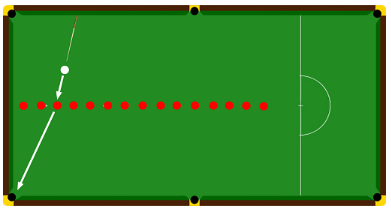
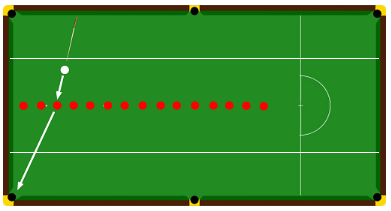
Exercises: series counter for "Detendez votre bras" (reds only), guide lines
- ExerciseSeries gains a reds-only mode (15 reds, no colours) with tests;
  the score dialog hides the colour buttons for it.
- Exercise 3 diagram now shows two white lines midway between the reds
  and each cushion (table split in three equal strips).
- Joueurs profile summarises the new exercise.

Changed region(s): [[0.0307, 0.7109, 0.9514, 0.7393], [0.0307, 0.2559, 0.9514, 0.2844]]

diff --git a/SnookerPlayer_Build6001/src/UI/ExerciseScoreDialog.cpp b/SnookerPlayer_Build6001/src/UI/ExerciseScoreDialog.cpp
@@ -59,9 +59,11 @@ namespace
     }
 }
 
-ExerciseScoreDialog::ExerciseScoreDialog(const QString& exerciseName, QWidget* parent)
+ExerciseScoreDialog::ExerciseScoreDialog(const QString& exerciseName, bool redsOnly, QWidget* parent)
     : QDialog(parent)
     , m_exerciseName(exerciseName)
+    , m_redsOnly(redsOnly)
+    , m_series(15, redsOnly)
 {
     setWindowTitle("Compter une serie - " + exerciseName);
     applyDarkTitleBar(this);
@@ -116,6 +118,7 @@ ExerciseScoreDialog::ExerciseScoreDialog(const QString& exerciseName, QWidget* p
         int value = kBalls[i].value;
         connect(button, &QPushButton::clicked, this, [this, value]() { potBall(value); });
         m_ballButtons[i] = button;
+        button->setVisible(!m_redsOnly || value == 1);
         ballRow->addWidget(button);
     }
     root->addLayout(ballRow);
@@ -234,7 +237,7 @@ void ExerciseScoreDialog::saveSeries()
 
 void ExerciseScoreDialog::newSeries()
 {
-    m_series = ExerciseSeries();
+    m_series = ExerciseSeries(15, m_redsOnly);
     m_ended = false;
     m_saved = false;
     refreshSeries();

diff --git a/SnookerPlayer_Build6001/src/UI/ExerciseDialog.cpp b/SnookerPlayer_Build6001/src/UI/ExerciseDialog.cpp
@@ -1069,7 +1069,8 @@ ExerciseDialog::ExerciseDialog(QWidget* parent)
         }
         QString name = exercises()[row].title;
         name.remove(QRegularExpression("^\\d+\\.\\s*"));
-        ExerciseScoreDialog dialog(name, this);
+        // Index 2 = "Detendez votre bras" (15 rouges, sans couleur).
+        ExerciseScoreDialog dialog(name, row == 2, this);
         dialog.exec();
     });
 
@@ -1092,9 +1093,9 @@ void ExerciseDialog::showExercise(int index)
         return;
     }
     m_contentLabel->setText(exercises()[index].html);
-    // Line-Up (index 3) et The T (index 4) : 15 rouges + couleurs, comptage
+    // "Detendez votre bras" (2), Line-Up (3) et The T (4) : 15 rouges, comptage
     // de serie possible.
-    m_scoreButton->setVisible(index == 3 || index == 4);
+    m_scoreButton->setVisible(index == 2 || index == 3 || index == 4);
     // Chaque exercice a son propre diagramme de mise en place -- ajouter
     // un "case" ici pour tout nouvel exercice.
     switch (index)

diff --git a/ExerciseSeries.h b/ExerciseSeries.h
@@ -24,7 +24,8 @@ public:
         Done            // toutes les billes sont empochees
     };
 
-    explicit ExerciseSeries(int redCount = 15);
+    // redsOnly : variante "rouges seulement" (aucune couleur), score max = redCount.
+    explicit ExerciseSeries(int redCount = 15, bool redsOnly = false);
 
     Next next() const;
     int nextColorValue() const;
@@ -37,10 +38,12 @@ public:
     int points() const;
     int redsPotted() const;
     int redCount() const { return m_redCount; }
+    bool redsOnly() const { return m_redsOnly; }
     bool isDone() const { return next() == Next::Done; }
     const std::vector<int>& sequence() const { return m_sequence; }
 
 private:
     int m_redCount;
+    bool m_redsOnly;
     std::vector<int> m_sequence;
 };

diff --git a/tests/EngineTests.cpp b/tests/EngineTests.cpp
@@ -405,6 +405,16 @@ namespace
             check(s.isDone() && s.points() == 147, "serie complete : 147 points, terminee");
             check(!s.pot(1), "serie complete : plus aucune bille permise");
         }
+        {
+            ExerciseSeries s(15, true);
+            check(!s.pot(7), "rouges seules : aucune couleur permise");
+            for (int i = 0; i < 15; ++i)
+            {
+                check(s.pot(1), "rouges seules : rouge " + std::to_string(i + 1));
+            }
+            check(s.isDone() && s.points() == 15, "rouges seules : 15 points, terminee");
+            check(!s.pot(1), "rouges seules : plus de bille apres la 15e");
+        }
     }
 
 }

diff --git a/SnookerPlayer_Build6001/src/UI/ExerciseScoreDialog.h b/SnookerPlayer_Build6001/src/UI/ExerciseScoreDialog.h
@@ -24,7 +24,8 @@ class ExerciseScoreDialog : public QDialog
     Q_OBJECT
 
 public:
-    ExerciseScoreDialog(const QString& exerciseName, QWidget* parent = nullptr);
+    // redsOnly : exercice a 15 rouges sans couleur (boutons couleurs masques).
+    ExerciseScoreDialog(const QString& exerciseName, bool redsOnly = false, QWidget* parent = nullptr);
 
 private:
     void potBall(int value);
@@ -36,6 +37,7 @@ private:
     void refreshHistory();
 
     QString m_exerciseName;
+    bool m_redsOnly = false;
     ExerciseSeries m_series;
     bool m_ended = false;
     bool m_saved = false;

diff --git a/SnookerPlayer_Build6001/src/UI/PlayersDialog.cpp b/SnookerPlayer_Build6001/src/UI/PlayersDialog.cpp
@@ -403,7 +403,7 @@ void PlayersDialog::showPlayer(const QString& name)
             .arg(stats.played).arg(stats.won).arg(winRate).arg(stats.framesWon).arg(stats.framesLost);
 
     // Entrainement : meilleur score par exercice compte (voir ExerciseScoreDialog).
-    for (const QString& exercise : QStringList{ "Line-Up", "The T" })
+    for (const QString& exercise : QStringList{ "Detendez votre bras", "Line-Up", "The T" })
     {
         ExerciseSummary summary = ExerciseSessions::summaryFor(name, exercise);
         if (summary.count > 0)

diff --git a/ExerciseSeries.cpp b/ExerciseSeries.cpp
@@ -32,14 +32,19 @@ namespace
     }
 }
 
-ExerciseSeries::ExerciseSeries(int redCount)
+ExerciseSeries::ExerciseSeries(int redCount, bool redsOnly)
     : m_redCount(redCount)
+    , m_redsOnly(redsOnly)
 {
 }
 
 ExerciseSeries::Next ExerciseSeries::next() const
 {
     Progress p = replay(m_sequence);
+    if (m_redsOnly)
+    {
+        return p.reds < m_redCount ? Next::Red : Next::Done;
+    }
     if (p.lastWasRed)
     {
         return Next::AnyColor;
